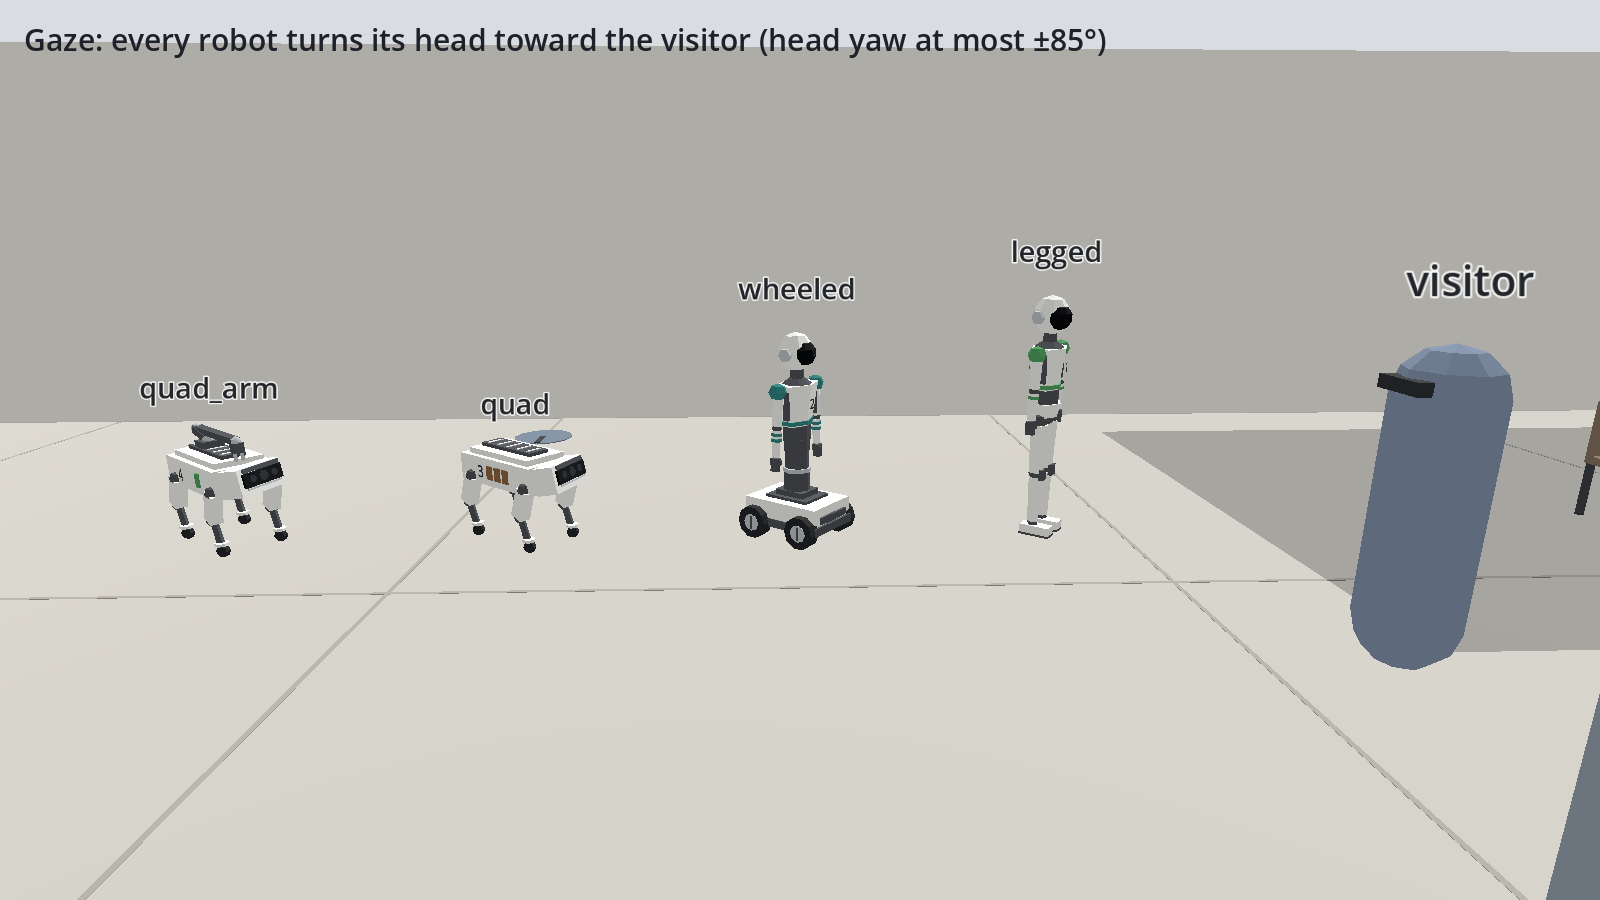
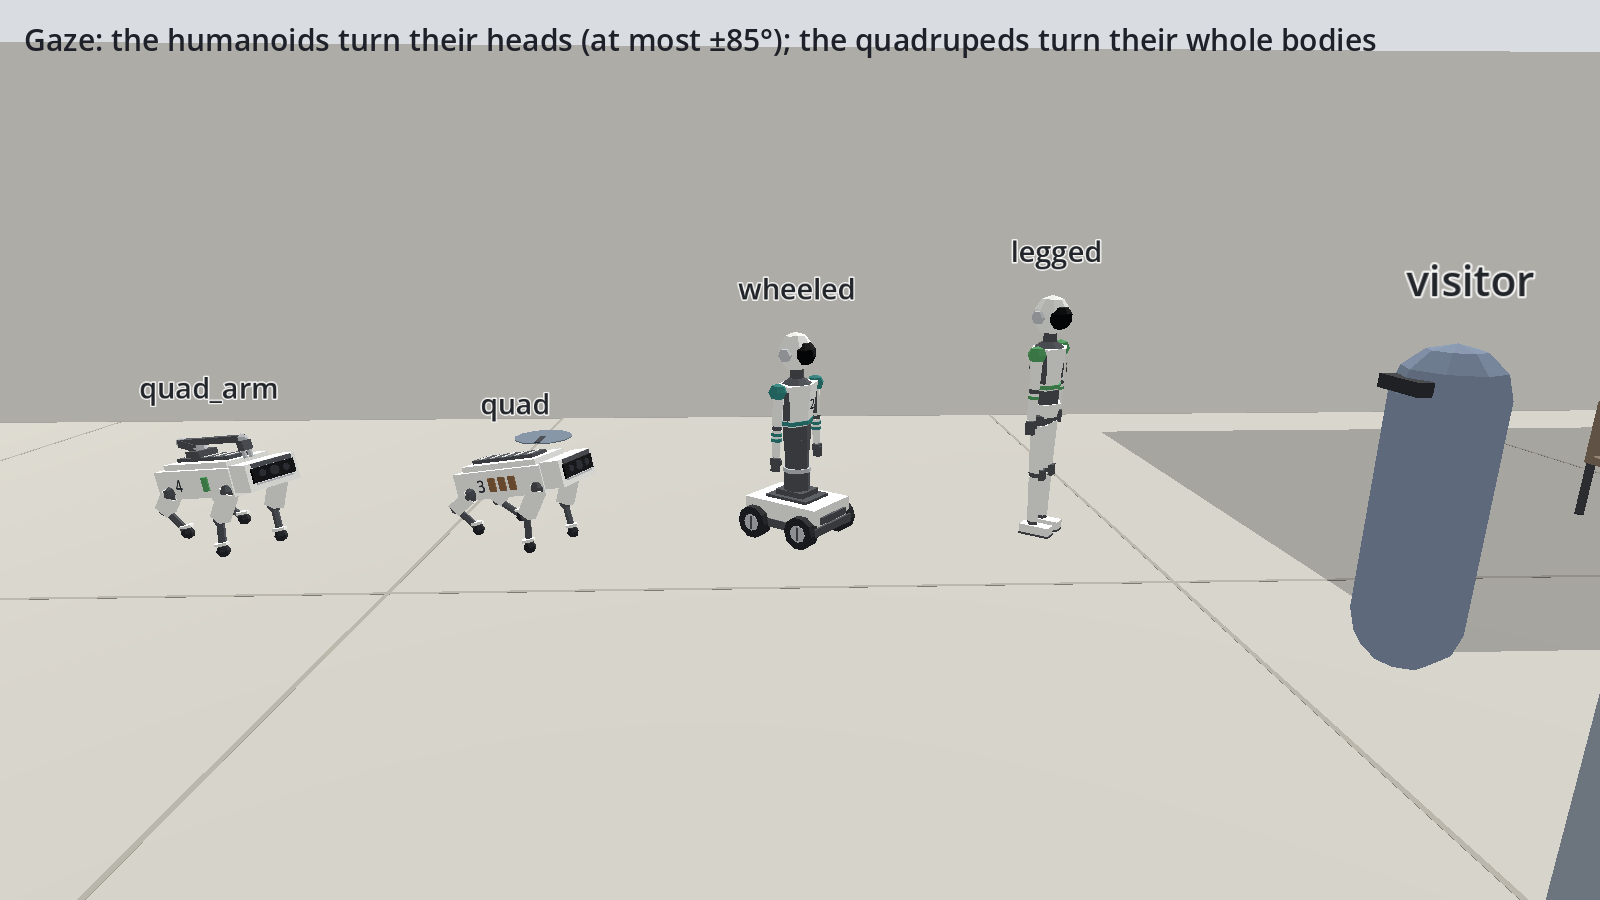
Quadruped has no neck: gaze and head tilt are whole-body poses on the legs
Owner direction: current robot dogs have one rigid body with the sensor head
built in, so a neck would not transfer to a real chassis.

- Sensor head fixed to the body; the Neck joint is replaced by a Body pose
  joint (yaw/pitch/roll, +/-15 degrees) about the body centre.
- Full leg IK with hip abduction keeps every foot planted while the legs bend
  asymmetrically; the body lowers slightly when a leg would stretch, and does
  less if the legs cannot hold the pose inside their limits.
- HEAD_TILT rolls the whole body; gaze turns and pitches it (90 deg/s); SIT
  owns the body while sitting.
- Python joint table, configs, contract examples, tests updated; new test
  test_quadruped_whole_body_gestures; front close-up screenshots; D-56,
  RIG_PLAN and the owner checklist updated.

Claude-Session: https://claude.ai/code/session_019Ns5SrtR9HdK2bK7ygoqBp

Changed region(s): [[0.0625, 0.0311, 0.875, 0.0622], [0.2812, 0.4667, 0.375, 0.5911], [0.0938, 0.4667, 0.1875, 0.5911]]

diff --git a/tests/test_bodies.py b/tests/test_bodies.py
@@ -147,11 +147,11 @@ EXPECTED_JOINTS = {
                         "ThumbR", "ToeL", "ToeR", "WristL", "WristR"],
     "wheeled_humanoid": ["ElbowL", "ElbowR", "FingersL", "FingersR", "Neck", "ShoulderL", "ShoulderR",
                          "SpineLower", "SpineUpper", "ThumbL", "ThumbR", "TorsoMount", "WristL", "WristR"],
-    "quadruped": ["HipAbdBL", "HipAbdBR", "HipAbdFL", "HipAbdFR", "HipFlexBL", "HipFlexBR", "HipFlexFL",
-                  "HipFlexFR", "KneeBL", "KneeBR", "KneeFL", "KneeFR", "Neck"],
-    "quadruped_arm": ["ArmBase", "ArmElbow", "ArmShoulder", "ArmWrist", "Gripper", "HipAbdBL", "HipAbdBR",
+    "quadruped": ["Body", "HipAbdBL", "HipAbdBR", "HipAbdFL", "HipAbdFR", "HipFlexBL", "HipFlexBR", "HipFlexFL",
+                  "HipFlexFR", "KneeBL", "KneeBR", "KneeFL", "KneeFR"],
+    "quadruped_arm": ["ArmBase", "ArmElbow", "ArmShoulder", "ArmWrist", "Body", "Gripper", "HipAbdBL", "HipAbdBR",
                       "HipAbdFL", "HipAbdFR", "HipFlexBL", "HipFlexBR", "HipFlexFL", "HipFlexFR", "KneeBL",
-                      "KneeBR", "KneeFL", "KneeFR", "Neck"],
+                      "KneeBR", "KneeFL", "KneeFR"],
 }
 
 
@@ -192,13 +192,15 @@ def test_prosody_is_clamped_to_the_body_range(body):
     ("legged_humanoid.yaml", "  skeleton: HUMANOID", "  skeleton: HUMANOID\n  arm_module: true",
      "rig.arm_module needs a quadruped with arms >= 1"),
     ("quadruped_arm.yaml", "  arm_module: true", "  arm_module: false", "its arm gestures could not be shown"),
-    ("quadruped.yaml", "  skeleton: QUADRUPED", "  skeleton: QUADRUPED\n  joint_limits_deg: {Neck: {yaw: [-90, 90]}}",
+    ("legged_humanoid.yaml", "  skeleton: HUMANOID", "  skeleton: HUMANOID\n  joint_limits_deg: {Neck: {yaw: [-90, 90]}}",
      "head yaw is at most +/-85 degrees"),
+    ("quadruped.yaml", "  skeleton: QUADRUPED", "  skeleton: QUADRUPED\n  joint_limits_deg: {Neck: {yaw: [-30, 30]}}",
+     "Neck is not a joint of this skeleton"),
     ("quadruped.yaml", "  skeleton: QUADRUPED", "  skeleton: QUADRUPED\n  joint_limits_deg: {ShoulderL: {pitch: [0, 90]}}",
      "ShoulderL is not a joint of this skeleton"),
-    ("quadruped.yaml", "  skeleton: QUADRUPED", "  skeleton: QUADRUPED\n  joint_limits_deg: {Neck: {flex: [0, 10]}}",
-     "Neck has no axis flex"),
-    ("quadruped.yaml", "  skeleton: QUADRUPED", "  skeleton: QUADRUPED\n  joint_limits_deg: {Neck: {pitch: [20, 10]}}",
+    ("quadruped.yaml", "  skeleton: QUADRUPED", "  skeleton: QUADRUPED\n  joint_limits_deg: {Body: {flex: [0, 10]}}",
+     "Body has no axis flex"),
+    ("quadruped.yaml", "  skeleton: QUADRUPED", "  skeleton: QUADRUPED\n  joint_limits_deg: {Body: {pitch: [20, 10]}}",
      "min 20 is above max 10"),
     ("wheeled_humanoid.yaml", "  gesture_tempo: {min: 0.5, max: 1.5}", "  gesture_tempo: {min: 1.1, max: 1.5}",
      "rig.gesture_tempo: the range 1.1-1.5 must include 1"),

diff --git a/range_service/bodies.py b/range_service/bodies.py
@@ -105,7 +105,9 @@ _HUMANOID_UPPER = {
 }
 _HUMANOID_LEGS = {"Hip": ("pitch", "roll", "yaw"), "Knee": ("flex",), "Ankle": ("pitch", "roll"), "Toe": ("flex",)}
 _WHEELED_BASE = {"TorsoMount": ("yaw", "pitch", "roll")}
-_QUADRUPED = {"Neck": ("yaw", "pitch", "roll"), "HipAbd": ("abduct",), "HipFlex": ("flex",), "Knee": ("flex",)}
+# The quadruped has no neck (owner, 2026-11-16): its "Body" joint is the whole body's pose over
+# planted feet (yaw, pitch, roll), made by the legs, as on current robot dogs.
+_QUADRUPED = {"Body": ("yaw", "pitch", "roll"), "HipAbd": ("abduct",), "HipFlex": ("flex",), "Knee": ("flex",)}
 _ARM_MODULE = {"ArmBase": ("yaw",), "ArmShoulder": ("pitch",), "ArmElbow": ("flex",),
                "ArmWrist": ("pitch", "yaw", "roll"), "Gripper": ("open",)}
 _SIDED = {"Shoulder", "Elbow", "Wrist", "Fingers", "Thumb", "Hip", "Knee", "Ankle", "Toe"}

diff --git a/docs/DECISIONS.md b/docs/DECISIONS.md
@@ -644,7 +644,7 @@ CONTEXT_MEMORY_STRATEGY §3–§5 as built:
 - **Code-driven animation with IK, not situation clips.** Skeletons are built from the body config at spawn; gaits are procedural with foot IK, so stairs and ramps from any map YAML work without new clips. Gestures are one-shot tracks on masked upper-body bones; gaze uses look-at. Godot 4.7.2's built-in modifiers (`TwoBoneIK3D`, `CCDIK3D`, `FABRIK3D`, `LookAtModifier3D`, `SpringBoneSimulator3D`, `PhysicalBoneSimulator3D`, `AnimationTree`, …) were checked present in the pinned build (2026-11-16).
 - **No ragdoll as simulation** (ART_DIRECTION §4, Foundry §5 P0/P1). Later and optional: cosmetic spring bones, and a ragdoll *replay* of a logged incident, presentation only.
 - **Three skeleton families**, amending ART_DIRECTION §6's "one shared humanoid skeleton for robots and humans": humanoid (legged humanoid, wheeled humanoid's upper body, human visitors), quadruped, and an arm module. Joint names keep `Neck`, `ShoulderL/R`, `ElbowL/R`, `WristL/R`.
-- **Realistic, readable joints** (tables in the plan): humanoid ~24 bones with fingers in two groups; quadruped 3 DOF per leg, point feet, rigid body, a 2-axis head kept for readable gaze; wheeled torso mount tilt ±20°; wheels spin from actual speed and never suggest sideways motion the body cannot do (D-33). **Head yaw at most ±85° on every body** (a head that turns right round reads as uncanny).
+- **Realistic, readable joints** (tables in the plan): humanoid ~24 bones with fingers in two groups; quadruped 3 DOF per leg, point feet, rigid body, a 2-axis head kept for readable gaze *(changed by the owner at step A, 2026-11-16: no neck; gaze and head gestures are whole-body poses made by the legs, D-56)*; wheeled torso mount tilt ±20°; wheels spin from actual speed and never suggest sideways motion the body cannot do (D-33). **Head yaw at most ±85° on every body** (a head that turns right round reads as uncanny).
 - **Motion prosody as bounded parameters:** optional `amplitude` and `tempo` (0.5–1.5) on gestures and catalog entries, clamped by the body config; the world computes the gesture event's duration from them. The model never moves joints (ART_DIRECTION §6).
 - **Data:** an optional `rig` block in body configs (skeleton family, joint limits, gait and gesture ranges); backward-compatible under D-29.
 - **Steps:** A skeletons, gestures, gaze, posture and wheels (cloud; can run while G3b happens on the owner's PC) → B gaits and foot IK → C articulated visitors (CC0 clips allowed after a license check) → D optional springs, incident replay, P2 contact. Cost measured with the render-tax test (ART_DIRECTION §7) and T25.
@@ -670,15 +670,16 @@ Choices made while building step A that D-54 and the plan left open:
 
 - **Skeleton per robot, parts on bones.** Each robot gets a `Skeleton3D` (`scripts/rig/rig.gd`) built at spawn from its body config (`RigSpec.for_body`) and its model's layout. Every primitive part hangs from one bone through a `BoneAttachment3D` named after the bone; nothing is merged into a skinned mesh yet (that saving matters for the G6 crowd and comes with the Blender mesh). Silhouettes are unchanged; the existing model test (size, footprint, visor height) still passes. The humanoid hand is split into palm, finger group and thumb so the two finger joints show.
 - **Joint conventions.** Bones rest with no rotation; a joint's rotation is its angles applied about its own axes in a fixed order (`RigSpec.AXES`, signs written there; left limbs mirror the right). All angles go through `Rig.set_angle`, which clamps to the limits and **counts every clamp**: the layers are designed to stay inside the limits, and the tests require zero clamps.
-- **Bones and joints.** Humanoid: Pelvis (legged) or Base + TorsoMount (wheeled), SpineLower, SpineUpper, Neck, ShoulderL/R, ElbowL/R, WristL/R, FingersL/R, ThumbL/R, and for the legged body HipL/R, KneeL/R, AnkleL/R, ToeL/R. Wheels WheelFL/FR/BL/BR spin freely. Quadruped: Body (rigid root), Neck, and per leg HipAbd, HipFlex, Knee and a Foot tip kept level with the body. Arm module: ArmBase, ArmShoulder, ArmElbow, ArmWrist, Gripper and two finger bones driven by the Gripper's `open`. Python (`range_service/bodies.py`) and Godot state the same joint names; tests on both sides pin them.
-- **Two limits differ from the plan's tables:** the quadruped head gets **roll ±25°** (HEAD_TILT needs it; the plan listed yaw and pitch only), and **ArmElbow folds to 170°** (the stowed arm on the back folds 164°, as before). Everything else is the plan's starting values, head yaw ±85° on every body.
+- **Bones and joints.** Humanoid: Pelvis (legged) or Base + TorsoMount (wheeled), SpineLower, SpineUpper, Neck, ShoulderL/R, ElbowL/R, WristL/R, FingersL/R, ThumbL/R, and for the legged body HipL/R, KneeL/R, AnkleL/R, ToeL/R. Wheels WheelFL/FR/BL/BR spin freely. Quadruped: Body (rigid root, also the `Body` pose joint below) and per leg HipAbd, HipFlex, Knee and a Foot tip kept level with the body; **no neck**. Arm module: ArmBase, ArmShoulder, ArmElbow, ArmWrist, Gripper and two finger bones driven by the Gripper's `open`. Python (`range_service/bodies.py`) and Godot state the same joint names; tests on both sides pin them.
+- **The quadruped has no neck (owner direction, 2026-11-16).** Current robot dogs (Spot and its many look-alikes) have one rigid body with the sensor head built in, so a neck would not transfer to a real chassis. The sensor head is fixed to the body. Its "head" gestures and gaze are **whole-body poses** instead: a `Body` joint (yaw, pitch, roll, each **±15°** as starting values) turns the body about its centre at hip height, and the legs hold it with full leg IK (hip abduction, hip flex, knee) so every foot stays on its spot and the left and right legs bend differently, the way a real controller shifts weight. If a leg would be stretched, the body lowers just enough (a slight crouch); if the legs cannot hold the pose inside their joint limits, the body does proportionally less. HEAD_TILT rolls the body 10° × amplitude with its nose dipped 3°; gaze turns and pitches the body toward the target at 90°/s; wider turns are the world's TURN_TO. While it sits, SIT_IN_PLACE owns the body pose. The same applies to the quadruped with and without the arm (the arm aims from the posed body). This replaces a 2-axis neck in the plan and the neck roll first proposed here.
+- **One other limit differs from the plan's tables:** **ArmElbow folds to 170°** (the stowed arm on the back folds 164°, as before). Everything else is the plan's starting values, head yaw ±85° on every humanoid.
 - **When poses run.** A `PoseStep` node in each world runs every physics tick after all movement (priority 900) and before a hold applies; it reads world state and writes only bone poses. `RangeWorld.posing_enabled` (Godot: `-- --no-pose`; `tools/run_scenario.py --no-pose`) switches it off, leaving robots in their rest pose. Nothing reads poses back: sense points stay computed from the body config (D-39).
 - **Layers as built.**
   1. *Locomotion:* wheels spin from the body's **measured** travel and turn (skid steer: a left turn runs the right side faster), never from the requested speed, so a robot pushing against a wall keeps its wheels still. No gait yet (step B): legged bodies keep their standing pose.
   2. *Posture:* a lean of up to about 3° with measured acceleration and 2° at full speed (spine, or the wheeled torso mount); BOW bends both spine joints (and the torso mount); the quadruped's SIT_IN_PLACE tips the body back about its front hips by up to 15° × amplitude, with the hind legs folding by two-bone IK and every foot staying on its spot.
   3. *Gestures:* one-shot tracks fitted inside the world's duration: **attack 25%, hold 50%, release 25%**; the **peak is halfway**, where any swing crosses zero. Arm gestures use analytic two-bone IK so the hand centre reaches the sense model's HAND point at the peak (raised hands aim 4 cm in front of it so the shoulder stays clear of its limit). Amplitude scales the swing or depth; tempo is already in the duration. A gesture that replaces one still showing fades the old one out over the new one's attack.
-  4. *Gaze:* the head turns toward a gaze target at the body's head speed (`rig.head_turn_speed_deg_s`, default 180°/s humanoid, 150°/s quadruped), clamped to the neck limits. Targets come from world events: `LOOK_AT` (an avatar or a point, held 3 s), a GESTURE or EXPRESS with an addressee (while it shows), and LOCAL speech with an addressee (2 s). Nod, shake and tilt add on top. The gaze target is world state but is not journaled and no agent perceives it yet (a later observation may report "head oriented toward me", RIG_PLAN).
+  4. *Gaze:* the head turns toward a gaze target at the body's head speed (`rig.head_turn_speed_deg_s`, default 180°/s humanoid; a quadruped turns its whole body at 90°/s), clamped to the neck's (or the quadruped Body joint's) limits. Targets come from world events: `LOOK_AT` (an avatar or a point, held 3 s), a GESTURE or EXPRESS with an addressee (while it shows), and LOCAL speech with an addressee (2 s). Nod, shake and tilt add on top. The gaze target is world state but is not journaled and no agent perceives it yet (a later observation may report "head oriented toward me", RIG_PLAN).
 - **Prosody.** `amplitude` and `tempo` (0.5–1.5, shared contract type `prosody_factor`) are optional on `GESTURE` and `EXPRESS` actions and on catalog entries (an EXPRESS value overrides the entry's). The body clamps them to its `rig.gesture_amplitude` / `rig.gesture_tempo` range. **The world's duration is 90 ticks / tempo, half a tick rounding up** (both languages; 0.8 → 113 ticks). `GESTURE_PERFORMED` journals `amplitude` and `tempo` **only when the request gave them**, so runs without prosody keep byte-identical journals. No new journal kinds; contract versions unchanged (all additions are optional). The quadruped with arm plays its gestures at tempo 0.7–1.3 so the long arm never whips round. **Models are not told about amplitude or tempo yet**: prompts are unchanged (adaptive use is G5).
 - **Body config `rig` block** (optional, contract `body` 2.0 unchanged): `skeleton` (HUMANOID or QUADRUPED, must fit `kind`), `arm_module`, `joint_limits_deg` overrides, `head_turn_speed_deg_s`, `gesture_amplitude`, `gesture_tempo`, `gait` (read from step B). `tools/validate_configs.py` rejects unknown joints or axes, min above max, head yaw beyond ±85°, prosody ranges that exclude 1, an arm module without an arm (or an arm without its module), and a rig on a visitor (visitors are step C). All four robot configs now carry a `rig` block.
-- **Tests (headless, in `tools/check.py`):** `test_rig_skeletons` (joints, every part on a bone, no arm bones without an arm), `test_rig_joint_limits` (every gesture at amplitude and tempo extremes, gaze behind, above and below, driving and turning: no limit passed, no clamp asked for, bones carry exactly their angles, head and posture gestures never move an arm), `test_gesture_fits_world_duration` (back at rest by the event's last tick, tempo 0.5–1.5), `test_posed_hand_at_sense_point` (≤ 10 cm at the peak, every amplitude, turned bodies; head gestures likewise; worst measured 5.8 cm), `test_pose_never_changes_the_world` (demo journal identical with posing on, on and off; same tick, same pose), `test_wheels_spin_from_actual_speed`, `test_gaze_layer`, `test_gesture_prosody_actions`. The scenario step now also runs SB-04 with `--no-pose` and requires the same journal bytes.
+- **Tests (headless, in `tools/check.py`):** `test_rig_skeletons` (joints, every part on a bone, no arm bones without an arm), `test_rig_joint_limits` (every gesture at amplitude and tempo extremes, gaze behind, above and below, driving and turning: no limit passed, no clamp asked for, bones carry exactly their angles, head and posture gestures never move an arm), `test_gesture_fits_world_duration` (back at rest by the event's last tick, tempo 0.5–1.5), `test_posed_hand_at_sense_point` (≤ 10 cm at the peak, every amplitude, turned bodies; head gestures likewise; worst measured 5.8 cm), `test_pose_never_changes_the_world` (demo journal identical with posing on, on and off; same tick, same pose), `test_wheels_spin_from_actual_speed`, `test_gaze_layer`, `test_gesture_prosody_actions`, `test_quadruped_whole_body_gestures` (no neck; HEAD_TILT, gaze and sitting with every foot within 2 mm of its spot and the legs bending asymmetrically). The scenario step now also runs SB-04 with `--no-pose` and requires the same journal bytes.
 - **Not in step A:** gaits and foot IK (step B), articulated visitors (step C), levels of detail (cost is small at four robots; measure with the render-tax test before G6), skinned-mesh merge, telling models about prosody.

diff --git a/docs/gates/RIG_A_OWNER_CHECKLIST.md b/docs/gates/RIG_A_OWNER_CHECKLIST.md
@@ -19,7 +19,7 @@ About 15 minutes. Repository at `G:\SOMA_CODEC`, Godot at `G:\Godot` (`GODOT_BIN
 uv run python tools/check.py
 ```
 
-Expect five **PASS** lines, `53 Godot tests passed`, and a line starting `PASS  scenarios: SB-04 deterministic` that ends with "one with posing off". About 3 minutes. It also proves the journal is byte-for-byte the same with posing on and off.
+Expect five **PASS** lines, `54 Godot tests passed`, and a line starting `PASS  scenarios: SB-04 deterministic` that ends with "one with posing off". About 3 minutes. It also proves the journal is byte-for-byte the same with posing on and off.
 
 ## 3. Watch every gesture
 
@@ -31,9 +31,9 @@ A window opens, plays the 12 gestures one after another (about 40 seconds) and c
 
 - [ ] The humanoids raise their **right** hand for WAVE, SMALL_WAVE, RAISED_HAND and BECKON, and reach forward for POINT, OPEN_PALM (hand up) and HAND_OVER (palm up).
 - [ ] The quadruped with arm unfolds its arm for WAVE, BECKON, RAISED_HAND (gripper open), POINT and HAND_OVER, then stows it flat again.
-- [ ] NOD, SHAKE_HEAD and HEAD_TILT move only the head; BOW bends the upper body; SIT_IN_PLACE tips both quadrupeds back onto folded hind legs, feet staying put.
+- [ ] On the humanoids NOD, SHAKE_HEAD and HEAD_TILT move only the head, and BOW bends the upper body. The quadrupeds have no neck: for HEAD_TILT their **whole body rolls** on their legs, feet staying put. SIT_IN_PLACE tips both quadrupeds back onto folded hind legs.
 - [ ] Nothing snaps, jitters or passes through the body. Arms never bend the wrong way.
-- [ ] The last picture: every robot turns its head toward the visitor.
+- [ ] The last pictures: the humanoids turn their heads toward the visitor; the quadrupeds turn and pitch their whole bodies a little toward them.
 
 Compare with the cloud renders in `docs\gates\RIG_A_screenshots\`. Your PC uses Forward+, so it may look richer. Tell me if a gesture reads wrong (for example, BECKON with the hand held high: that height comes from where the sense model expects a raised hand).
 
@@ -51,7 +51,7 @@ uv run python tools/run_scenario.py SB04_POLITE_BID --watch
 uv run python tools/run_scenario.py SB04_POLITE_BID --watch --body robot_r=quadruped
 ```
 
-- [ ] The quadruped **tilts its sensor head** toward Y instead of nodding.
+- [ ] The quadruped has no neck: instead of nodding it **tilts its whole body** toward Y, its legs bending unevenly while its feet stay put.
 
 ## 5. Watch the robots walk to the platform (optional)
 

diff --git a/docs/gates/RIG_PLAN.md b/docs/gates/RIG_PLAN.md
@@ -87,7 +87,7 @@ The reference sheet's 86 DOF (three segments per finger) is film-level detail th
 | HipFlex ×4 | 1 | −60°…+120° | |
 | Knee ×4 | 1 | −150°…0° | |
 | Foot ×4 | — | — | Point feet, no ankle (the sheet's 2-DOF ankle is not current hardware) |
-| Neck + Head | 2 | yaw ±85°, pitch −35°…+45° | A design choice: many real robot dogs have a fixed sensor head, but readable gaze is the point |
+| Body pose (no neck) | 3 | yaw ±15°, pitch ±15°, roll ±15° | **Changed at step A (owner, 2026-11-16; D-56):** no neck, as on current robot dogs; the sensor head is fixed to the body. Gaze and HEAD_TILT are whole-body poses that the legs make over planted feet (asymmetric hip and knee angles), lowering the body slightly when needed. *Was: a 2-axis neck for readable gaze* |
 
 3 DOF per leg is what current robot dogs have, and it also keeps the IK simple.
 
